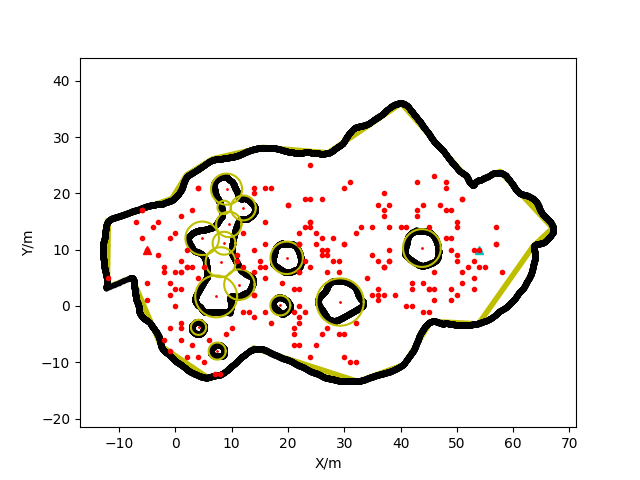
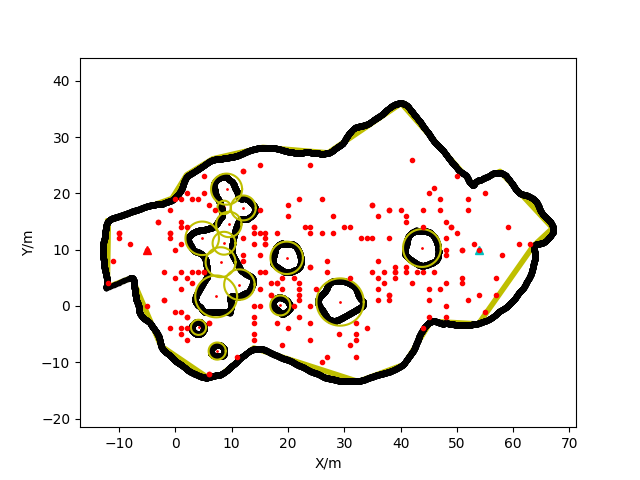
push

diff --git a/venv/ALNS-CVRP/ALNS_CVRP.py b/venv/ALNS-CVRP/ALNS_CVRP.py
@@ -360,8 +360,12 @@ if __name__ == '__main__':
     locations =np.array(tpl_lst1)
     demands = np.array(tpl_lst2)
 
-   # locations=np.array([[0,0],[4,-8],[-2,5],[2,6],[-4,-3],[1,2],[6,-3],[-1,0]])
-   # demands = np.array([0,0.56,0.54,0.31,0.08,0.27,0.14,0.1])
+    locations=np.array([[-681100,-1205800],[-697300,-1072700],[-664600,-1122100],[-628200,-1119600],[-696700,-1169400],[-621800,-1168700],[-622200,-1198800]])
+    demands = np.array([0,240,170,190,300,248,100])
+    # locations=np.array([[0,0],[4,-8],[-2,5],[2,6],[-4,-3],[1,2],[6,-3],[-1,0]])
+    # demands = np.array([0,0.56,0.54,0.31,0.08,0.27,0.14,0.1])
+    # locations = np.array([(35.0, 35.0), (41.0, 49.0), (35.0, 17.0), (55.0, 45.0), (55.0, 20.0), (15.0, 30.0), (25.0, 30.0), (20.0, 50.0), (10.0, 43.0), (55.0, 60.0), (30.0, 60.0), (20.0, 65.0), (50.0, 35.0), (30.0, 25.0), (15.0, 10.0), (30.0, 5.0), (10.0, 20.0), (5.0, 30.0), (20.0, 40.0), (15.0, 60.0), (45.0, 65.0), (45.0, 20.0), (45.0, 10.0), (55.0, 5.0), (65.0, 35.0), (65.0, 20.0), (45.0, 30.0), (35.0, 40.0), (41.0, 37.0), (64.0, 42.0), (40.0, 60.0), (31.0, 52.0), (35.0, 69.0), (53.0, 52.0), (65.0, 55.0), (63.0, 65.0), (2.0, 60.0), (20.0, 20.0), (5.0, 5.0), (60.0, 12.0), (40.0, 25.0), (42.0, 7.0), (24.0, 12.0), (23.0, 3.0), (11.0, 14.0), (6.0, 38.0), (2.0, 48.0), (8.0, 56.0), (13.0, 52.0), (6.0, 68.0), (47.0, 47.0), (49.0, 58.0), (27.0, 43.0), (37.0, 31.0), (57.0, 29.0), (63.0, 23.0), (53.0, 12.0), (32.0, 12.0), (36.0, 26.0), (21.0, 24.0), (17.0, 34.0), (12.0, 24.0), (24.0, 58.0), (27.0, 69.0), (15.0, 77.0), (62.0, 77.0), (49.0, 73.0), (67.0, 5.0), (56.0, 39.0), (37.0, 47.0), (37.0, 56.0), (57.0, 68.0), (47.0, 16.0), (44.0, 17.0), (46.0, 13.0), (49.0, 11.0), (49.0, 42.0), (53.0, 43.0), (61.0, 52.0), (57.0, 48.0), (56.0, 37.0), (55.0, 54.0), (15.0, 47.0), (14.0, 37.0), (11.0, 31.0), (16.0, 22.0), (4.0, 18.0), (28.0, 18.0), (26.0, 52.0), (26.0, 35.0), (31.0, 67.0), (15.0, 19.0), (22.0, 22.0), (18.0, 24.0), (26.0, 27.0), (25.0, 24.0), (22.0, 27.0), (25.0, 21.0), (19.0, 21.0), (20.0, 26.0), (18.0, 18.0)])
+    # demands = np.array([0.0, 10.0, 7.0, 13.0, 19.0, 26.0, 3.0, 5.0, 9.0, 16.0, 16.0, 12.0, 19.0, 23.0, 20.0, 8.0, 19.0, 2.0, 12.0, 17.0, 9.0, 11.0, 18.0, 29.0, 3.0, 6.0, 17.0, 16.0, 16.0, 9.0, 21.0, 27.0, 23.0, 11.0, 14.0, 8.0, 5.0, 8.0, 16.0, 31.0, 9.0, 5.0, 5.0, 7.0, 18.0, 16.0, 1.0, 27.0, 36.0, 30.0, 13.0, 10.0, 9.0, 14.0, 18.0, 2.0, 6.0, 7.0, 18.0, 28.0, 3.0, 13.0, 19.0, 10.0, 9.0, 20.0, 25.0, 25.0, 36.0, 6.0, 5.0, 15.0, 25.0, 9.0, 8.0, 18.0, 13.0, 14.0, 3.0, 23.0, 6.0, 26.0, 16.0, 11.0, 7.0, 41.0, 35.0, 26.0, 9.0, 15.0, 3.0, 1.0, 2.0, 22.0, 27.0, 20.0, 11.0, 12.0, 10.0, 9.0, 17.0, 35.0, 41.0, 35.0, 55.0, 55.0, 15.0, 25.0, 20.0, 10.0, 55.0, 30.0, 20.0, 50.0, 30.0, 15.0, 30.0, 10.0, 5.0, 20.0, 15.0, 45.0, 45.0, 45.0, 55.0, 65.0, 65.0, 45.0, 35.0, 41.0, 64.0, 40.0, 31.0, 35.0, 53.0, 65.0, 63.0, 2.0, 20.0, 5.0, 60.0, 40.0, 42.0, 24.0, 23.0, 11.0, 6.0, 2.0, 8.0, 13.0, 6.0, 47.0, 49.0, 27.0, 37.0, 57.0, 63.0, 53.0, 32.0, 36.0, 21.0, 17.0, 12.0, 24.0, 27.0, 15.0, 62.0, 49.0, 67.0, 56.0, 37.0, 37.0, 57.0, 47.0, 44.0, 46.0, 49.0, 49.0, 53.0, 61.0, 57.0, 56.0, 55.0, 15.0, 14.0, 11.0, 16.0, 4.0, 28.0, 26.0, 26.0, 31.0, 15.0, 22.0, 18.0, 26.0, 25.0, 22.0, 25.0, 19.0, 20.0, 18.0, 0.0, 10.0, 7.0, 13.0, 19.0, 26.0, 3.0, 5.0, 9.0, 16.0, 16.0, 12.0, 19.0, 23.0, 20.0, 8.0, 19.0, 2.0, 12.0, 17.0, 9.0, 11.0, 18.0, 29.0, 3.0, 6.0, 17.0, 16.0, 16.0, 9.0, 21.0, 27.0, 23.0, 11.0, 14.0, 8.0, 5.0, 8.0, 16.0, 31.0, 9.0, 5.0, 5.0, 7.0, 18.0, 16.0, 1.0, 27.0, 36.0, 30.0, 13.0, 10.0, 9.0, 14.0, 18.0, 2.0, 6.0, 7.0, 18.0, 28.0, 3.0, 13.0, 19.0, 10.0, 9.0, 20.0, 25.0, 25.0, 36.0, 6.0, 5.0, 15.0, 25.0, 9.0, 8.0, 18.0, 13.0, 14.0, 3.0, 23.0, 6.0, 26.0, 16.0, 11.0, 7.0, 41.0, 35.0, 26.0, 9.0, 15.0, 3.0, 1.0, 2.0, 22.0, 27.0, 20.0, 11.0, 12.0, 10.0, 9.0, 17.0])
     distance_matrix = genDistanceMat(locations[:,0], locations[:,1])#计算距离矩阵
     best_solution,best_cost = ALNS(distance_matrix,locations,demands)
     filename = "A"

diff --git a/venv/ALNS-CVRP/test/CVPR整合.py b/venv/ALNS-CVRP/test/CVPR整合.py
@@ -366,10 +366,16 @@ with open("tsp1.txt", "w") as file:
 #  [0, 75, 22, 41, 15, 43, 38, 14, 42, 57, 2, 0], [0, 58, 21, 72, 74, 73, 40, 53, 0], [0, 4, 39, 67, 23, 56, 0],
 #  [0, 7, 19, 11, 64, 49, 36, 47, 46, 0], [0, 5, 85, 93, 99, 96, 0]]
 #改2
-capacity=120
+capacity=420
 N=30
 #路段数据整合
 lst1, lst2=vrp()
+
+
+print(lst1)
+print(lst2)
+lst1=[(-681100,-1205800),(-697300,-1072700),(-664600,-1122100),(-628200,-1119600),(-696700,-1169400),(-621800,-1168700),(-622200,-1198800)]
+lst2=[0,240,170,190,300,248,100]
 locations = np.array(lst1)
 lst3 = list(zip(lst1, lst2))
 
@@ -383,8 +389,8 @@ for sublist in path:
     for index in sublist:
         temp.append(lst3[index])
     pos.append(temp)
-if N==1:
-  with open("C:/Users/wuhon/Desktop/AA/A/data.txt", "a") as f:
+
+with open("C:/Users/wuhon/Desktop/AA/A/data.txt", "a") as f:
     f.write(str(pos) + "\n")
 print("路段pos",pos)
 print("pos段数",len(pos))
@@ -440,10 +446,14 @@ k=0
 q=0
 
 while(i<N):
-    if len(curroad)==1 or len(curroad)==q:
-      del currentPath[0]
-      print(currentPath)
-      write_to_file('tsp1.txt', currentPath)
+    if len(curroad)==1 or len(curroad)+1==q:
+
+      if len(curroad)==1:
+        del currentPath[0]
+        print(currentPath)
+        write_to_file('tsp1.txt', currentPath)
+      else:
+          print("curroad:", curroad)
       break
 
     minpathindex,indd,flag,currentPath,ppos,curroad,splittpoint,idnum,pos,reorder_p,comPos,new_lst,rmppos=tspPos(indd,flag,currentPath,ppos,curroad,i,path,lst1,idnum,reorder_p,new_lst,tpos)
@@ -469,6 +479,7 @@ while(i<N):
     if flag==1:
       k=k+1
       del path[idnum]
+      q=0
     else:
         q=q+1
     draw(path, locations, curroad, [splittpoint], curroad[minpathindex], comPos,i, new_lst, rmppos)

diff --git a/venv/ALNS-CVRP/ALNS_CVRPcp.py b/venv/ALNS-CVRP/ALNS_CVRPcp.py
@@ -337,16 +337,16 @@ def writetxt_savefig(i,file):
      draw(best_solution, locations, figname)
 
 if __name__ == '__main__':
- with open("result.txt", "w") as file:
-  for i in range(1,45,2):
+  with open("result.txt", "w") as file:
+   for i in range(1,45,2):
     customer,demand=readtxt(i)
     np.random.seed(1)#固定随机种子，使得每次运行结果相同
     config = get_config()#参数实例化
     locations,demands = generate_demo(config)#生成demo
     locations =  np.array(customer)
     demands = np.array(demand)
-    #locations=np.array([[0,0],[4,-8],[-2,5],[2,6],[-4,-3],[1,2],[6,-3],[-1,0]])
-    #demands = np.array([0,0.56,0.54,0.31,0.08,0.27,0.14,0.1])
+    # locations=np.array([[0,0],[4,-8],[-2,5],[2,6],[-4,-3],[1,2],[6,-3],[-1,0]])
+    # demands = np.array([0,0.56,0.54,0.31,0.08,0.27,0.14,0.1])
     distance_matrix = genDistanceMat(locations[:,0], locations[:,1])#计算距离矩阵
     best_solution,best_cost = ALNS(distance_matrix,locations,demands)
     print("打印locations：",locations,"打印demands：",demands)

diff --git a/venv/ALNS-CVRP/utils.py b/venv/ALNS-CVRP/utils.py
@@ -19,8 +19,8 @@ def get_config(args=None):
     parser = argparse.ArgumentParser(description="Meta optimization")
     #help：对参数的简单，描述
     ##改3
-    parser.add_argument('--customers_num', type=int, default=33, help="客户最大数量")
-    parser.add_argument('--capacity', type=float, default=120, help="车辆最大容量")
+    parser.add_argument('--customers_num', type=int, default=1, help="客户最大数量")
+    parser.add_argument('--capacity', type=float, default=420, help="车辆最大容量")
     parser.add_argument('--EPSILON', type=float, default=0.00000000001, help="一个非常小的数值")
     parser.add_argument('--map_x_max', type=float, default=1000, help="x轴最大范围")
     parser.add_argument('--map_y_max', type=float, default=1000, help="y轴最大范围")
